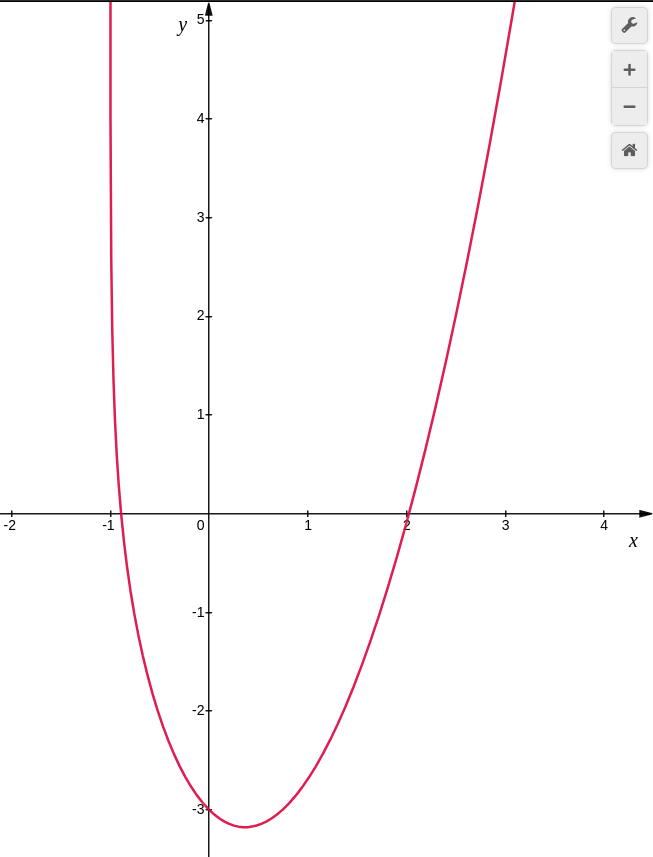
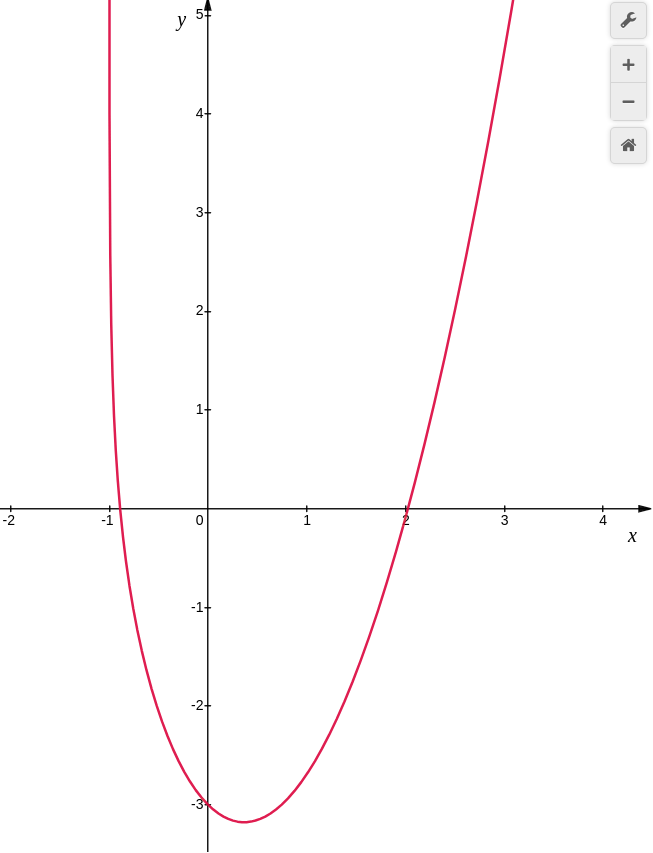
Moved plot to verification section

diff --git a/docs/lab3.md b/docs/lab3.md
@@ -32,10 +32,6 @@ description: Форми lambda та let, вираз присвоєння set! д
 
 ### Задача 1
 
-Для початку, побудуємо графік цільової функції. Він виглядає так:
-
-![plot](images/plot.png)
-
 Метод Ньютона (метод дотичних) - проста ітеративна процедура, яка намагається наблизити координати точки дотику до
 точки перетину функції з віссю абсцис. Формульно це виглядає так:
 
@@ -209,6 +205,13 @@ description: Форми lambda та let, вираз присвоєння set! д
 ```
 
 Влучність чисельного рішення наближається до аналітичного при поділі на сотні трапецій.
+
+## Оцінка достовірності
+
+Для того, щоб переконатися, що при вирішенні нелінійного рівняння ми не оминули корені, зобразимо графік цільової
+функції. Він такий:
+
+![plot](images/plot.png)
 
 ## Висновки
 
